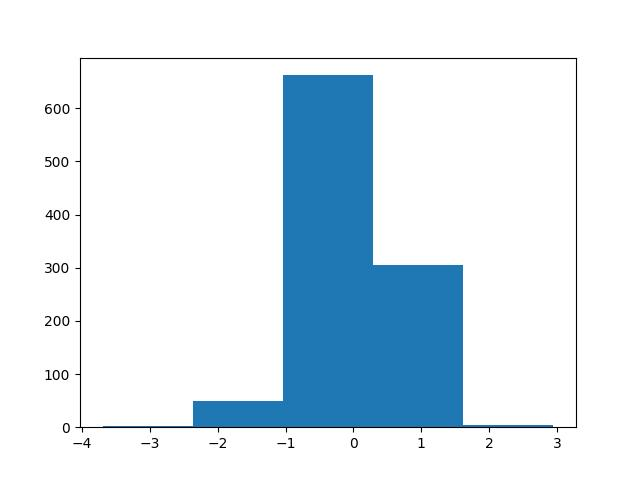
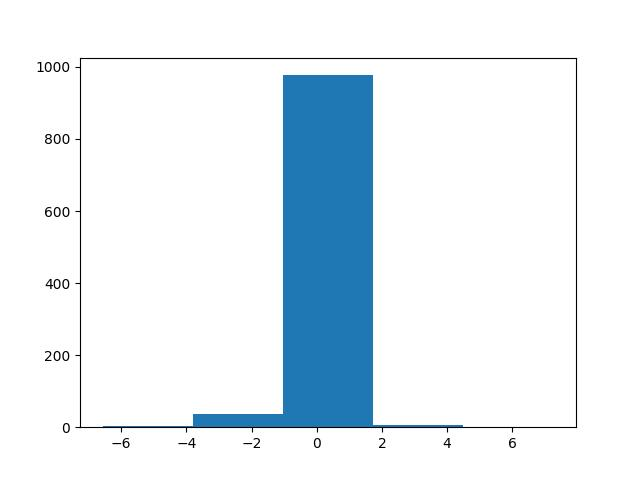
game-like changes

diff --git a/app.py b/app.py
@@ -218,12 +218,16 @@ def next_image(embs, ys, calibrate_prompts):
             if len(neg_indices) - len(pos_indices) > 48/16 and len(neg_indices) > 6:
                 neg_indices = neg_indices[5:]
             
+            if len(neg_indices) > 25:
+                neg_indices = neg_indices[1:]
             
             print(len(pos_indices), len(neg_indices))
             indices = pos_indices + neg_indices
             
             embs = [embs[i] for i in indices]
             ys = [ys[i] for i in indices]
+            
+            
             indices = list(range(len(embs)))
             
             
@@ -277,14 +281,11 @@ def next_image(embs, ys, calibrate_prompts):
             w = 1# if len(embs) % 2 == 0 else 0
             im_emb = w * coef_.to(dtype=dtype)
 
-            prompt= 'the scene' if glob_idx % 2 == 0 else rng_prompt
+            prompt= 'the scene' if glob_idx % 3 != 0 else rng_prompt
             print(prompt)
             image, im_emb = generate(prompt, im_emb)
             embs += im_emb
             
-            if len(embs) > 50:
-                embs = embs[1:]
-                ys = ys[1:]
             
             return image, embs, ys, calibrate_prompts
 
